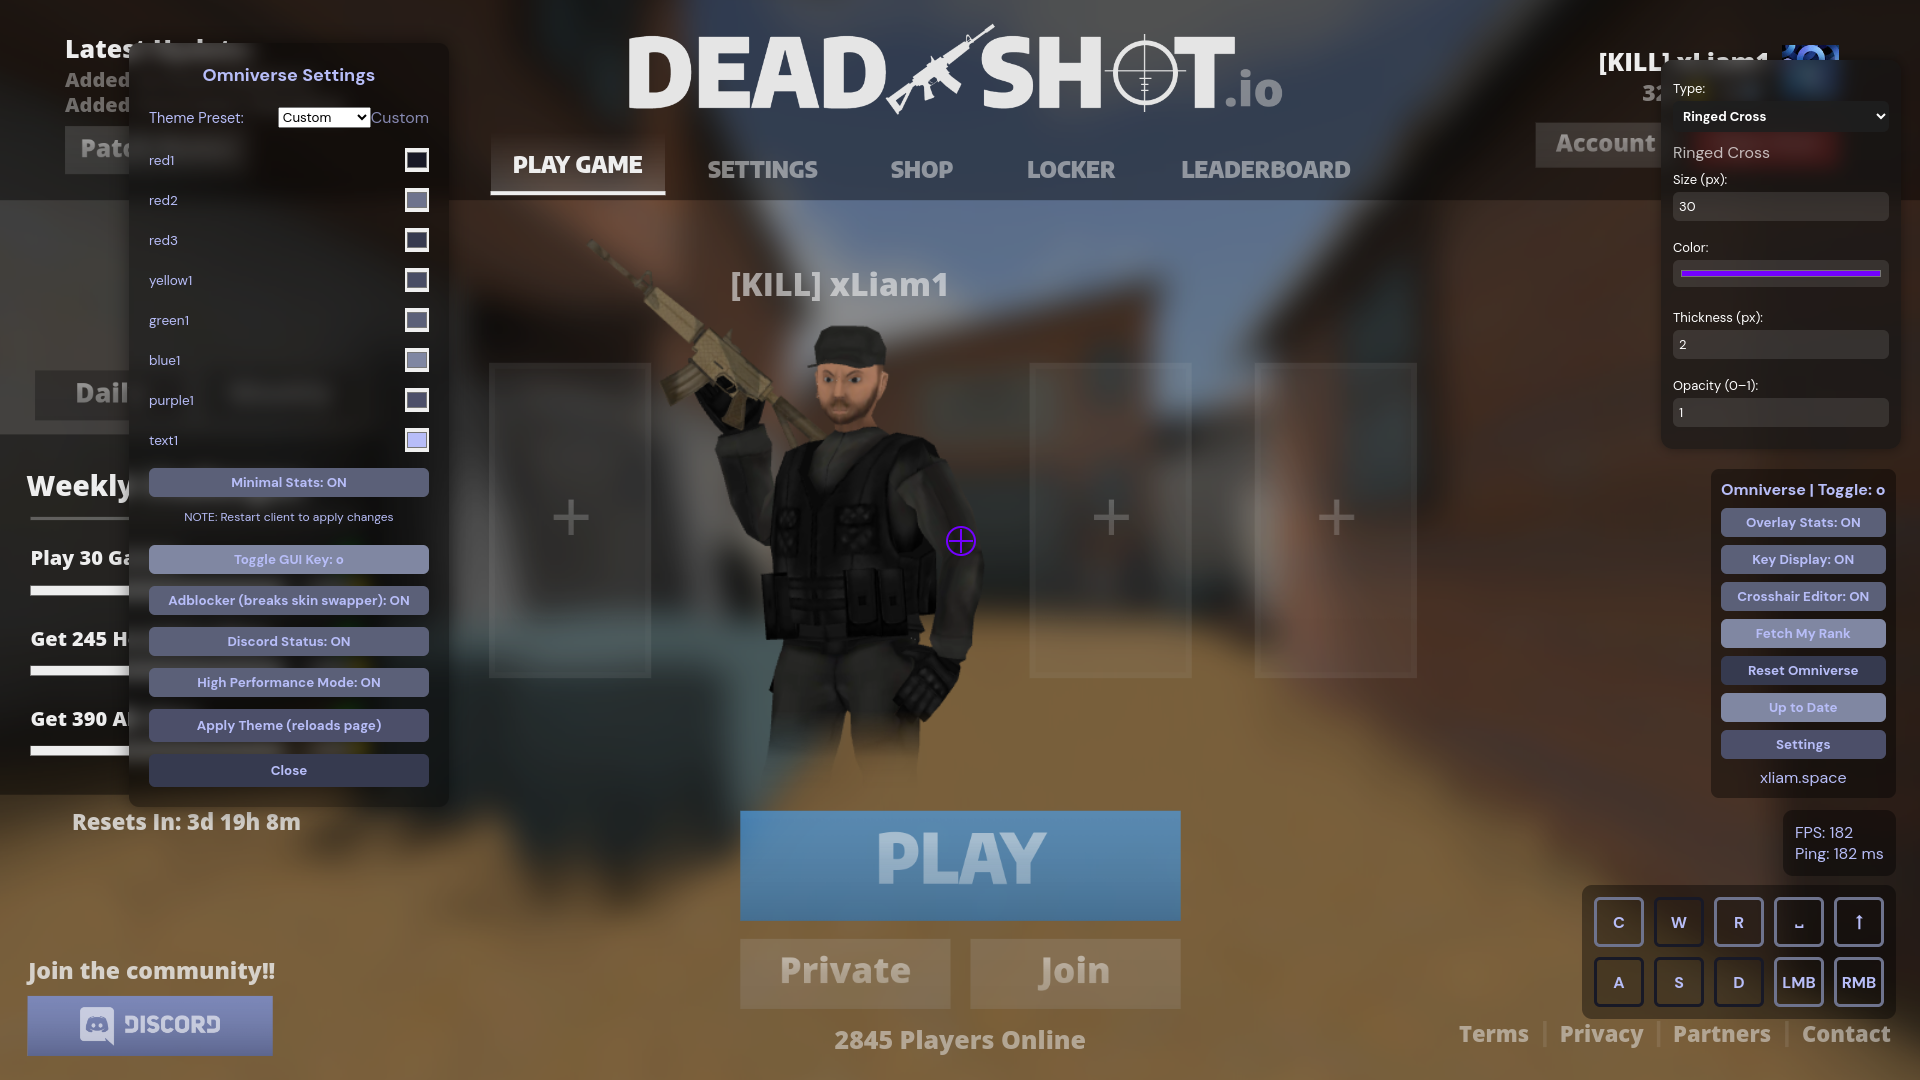
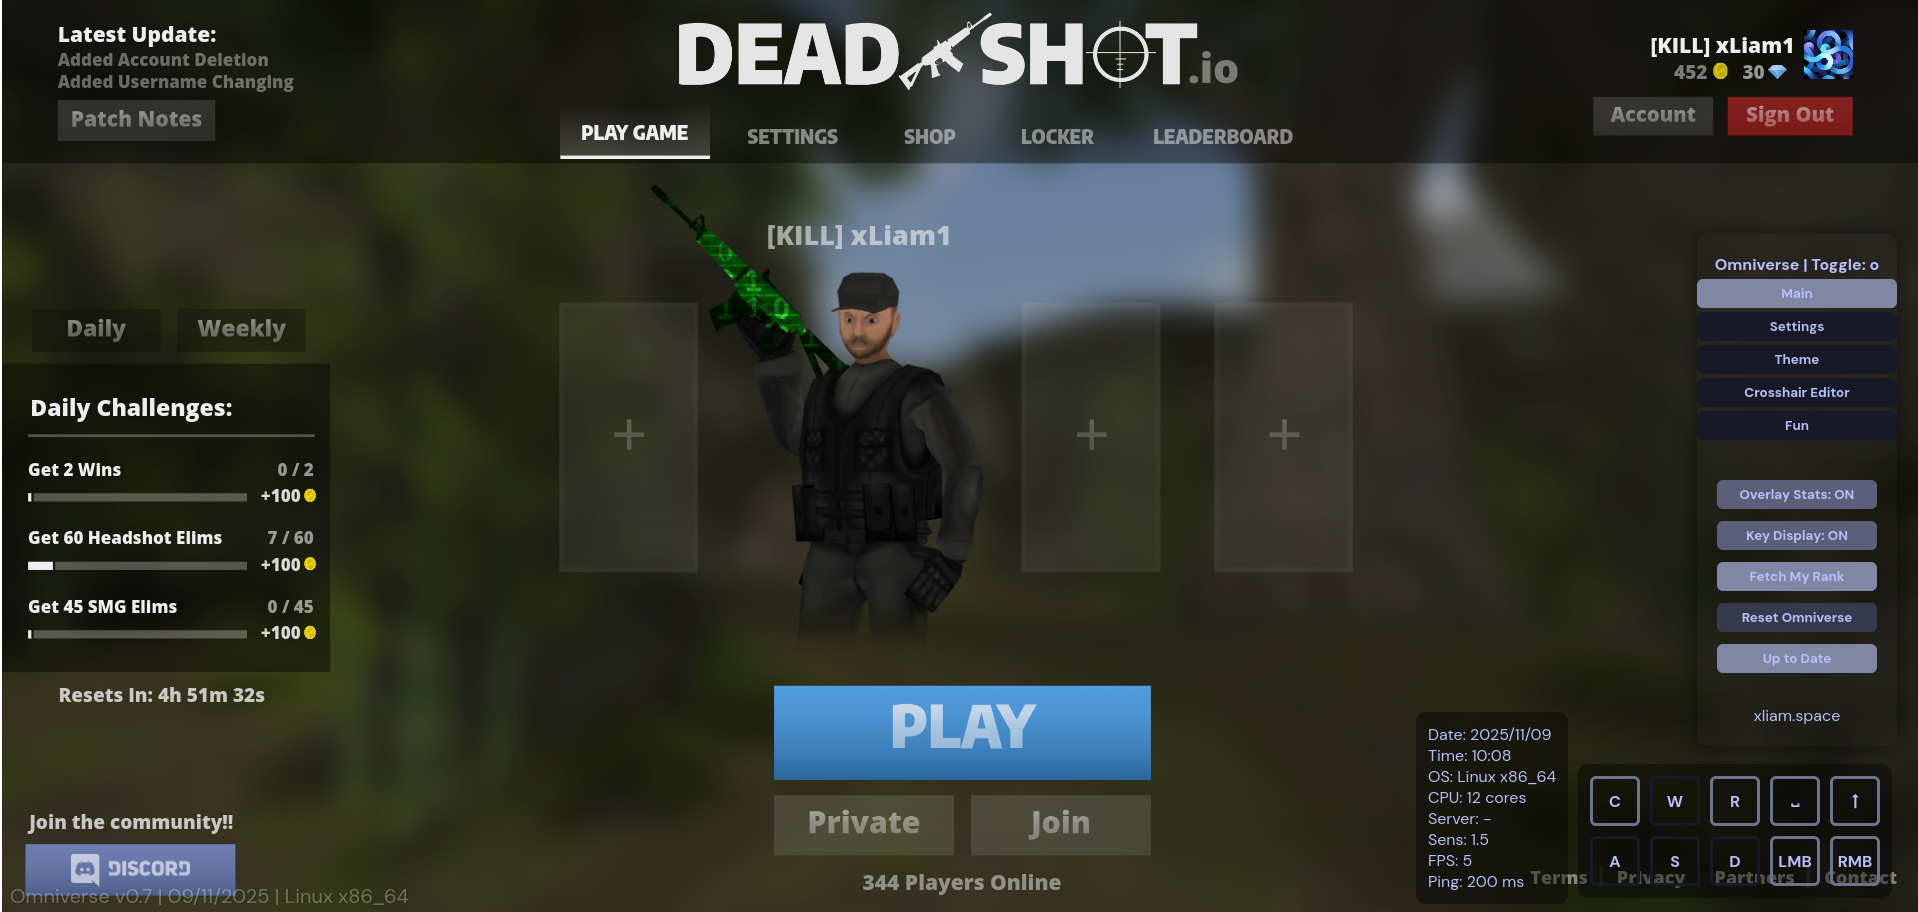
sss

diff --git a/src/modules/gui.js b/src/modules/gui.js
@@ -367,7 +367,7 @@ function GUI(utils, theme, themes, currentPreset, CrosshairOverlay) {
     let adblocker = settings.adblocker ?? false; // default false
 
     const adblockBtn = utils.el('button', {
-        text: `Adblocker (breaks skin swapper): ${adblocker ? 'ON' : 'OFF'}`
+        text: `Manual .webp swapper: ${adblocker ? 'ON' : 'OFF'}`
     });
     Object.assign(adblockBtn.style, {
         padding: '6px 12px',
@@ -384,7 +384,7 @@ function GUI(utils, theme, themes, currentPreset, CrosshairOverlay) {
         adblocker = !adblocker;
         settings.adblocker = adblocker;
         writeSettings(settings);
-        adblockBtn.textContent = `Adblocker (breaks skin swapper): ${adblocker ? 'ON' : 'OFF'}`;
+        adblockBtn.textContent = `Manual .webp swapper: ${adblocker ? 'ON' : 'OFF'}`;
         adblockBtn.style.background = adblocker ? theme.green1 : theme.red3;
     });
 

diff --git a/src/main.js b/src/main.js
@@ -123,7 +123,7 @@ const createWindow = () => {
 
 app.whenReady().then(() => {
 	const gameWindow = createWindow();
-
+	if (adblock) {
 	protocol.handle("custom", async (req) => {
 		const relativePath = req.url.slice(7);
 		const localPath = path.join(__dirname, "swap", relativePath);
@@ -174,7 +174,7 @@ app.whenReady().then(() => {
 			}
 		},
 	);
-
+	}
 
 });
 

diff --git a/README.md b/README.md
@@ -5,11 +5,12 @@
 <p align="center">
 <b>A modern, easy to use Deadshot.io client.</b>
 
-<p align="center">
-  <img src="github/image.png">
-  <i>Preview of Omniverse 0.5</i>
-</p>
-
+<div align="center">
+  <img src="github/image.png" height="250">
+  <img src="github/matrix.png" height="250">
+  <br>
+  <i>Preview of Omniverse 0.7</i>  <i>Preview of Matrix Skins</i>
+</div>
 
 ## DO NOT DISTRIBUTE WITHOUT CREDIT
 ## Download:
@@ -25,13 +26,22 @@ npm start
 - [x] FPS Booster (literally triples your FPS)
 - [x] Keys Overlay - WASD C, R, Left/Right click 
 - [x] PC Stats - Just FPS + Ping or with Platform + CPU Cores
-- [x] Gun skin swapper <- Can either use ALL native skins or custom Webp
+- [x] Gun skin swapper <- Can either use ALL native skins or custom .webp
+- [x] Rainbow character
 - [x] Customizable UI
 - [x] Leaderboard scraper
 - [x] Auto Fullscreen
 - [x] Adblocker
 - [x] Discord RPC
 - [ ] Aimbot soon trust 
+
+## I have a white screen!
+This is an Electron issue, try these steps and **restart the client** each time until it works:
+- Connect to Internet
+- Close all Omniverse windows 
+- Restart your computer
+- Remove `C:/Users/name/AppData/Roaming/deadshot-viewer` or `/home/user/.config/deadshot-viewer`
+- Open an issue
 
 ## How to swap your guns:
 NEW: Turn Fun Mode on in settings, and choose your gun! Or follow the steps below for your custom .webp. <br>
